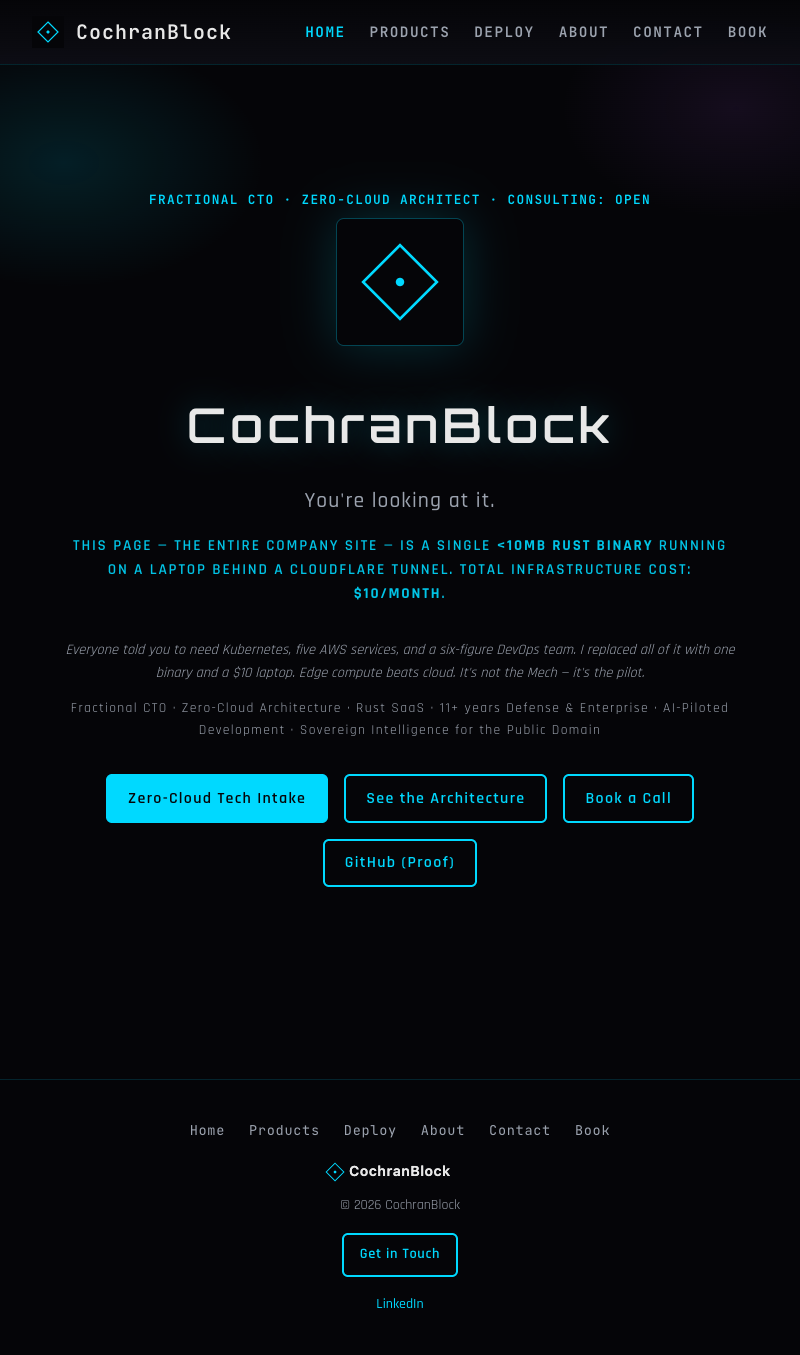
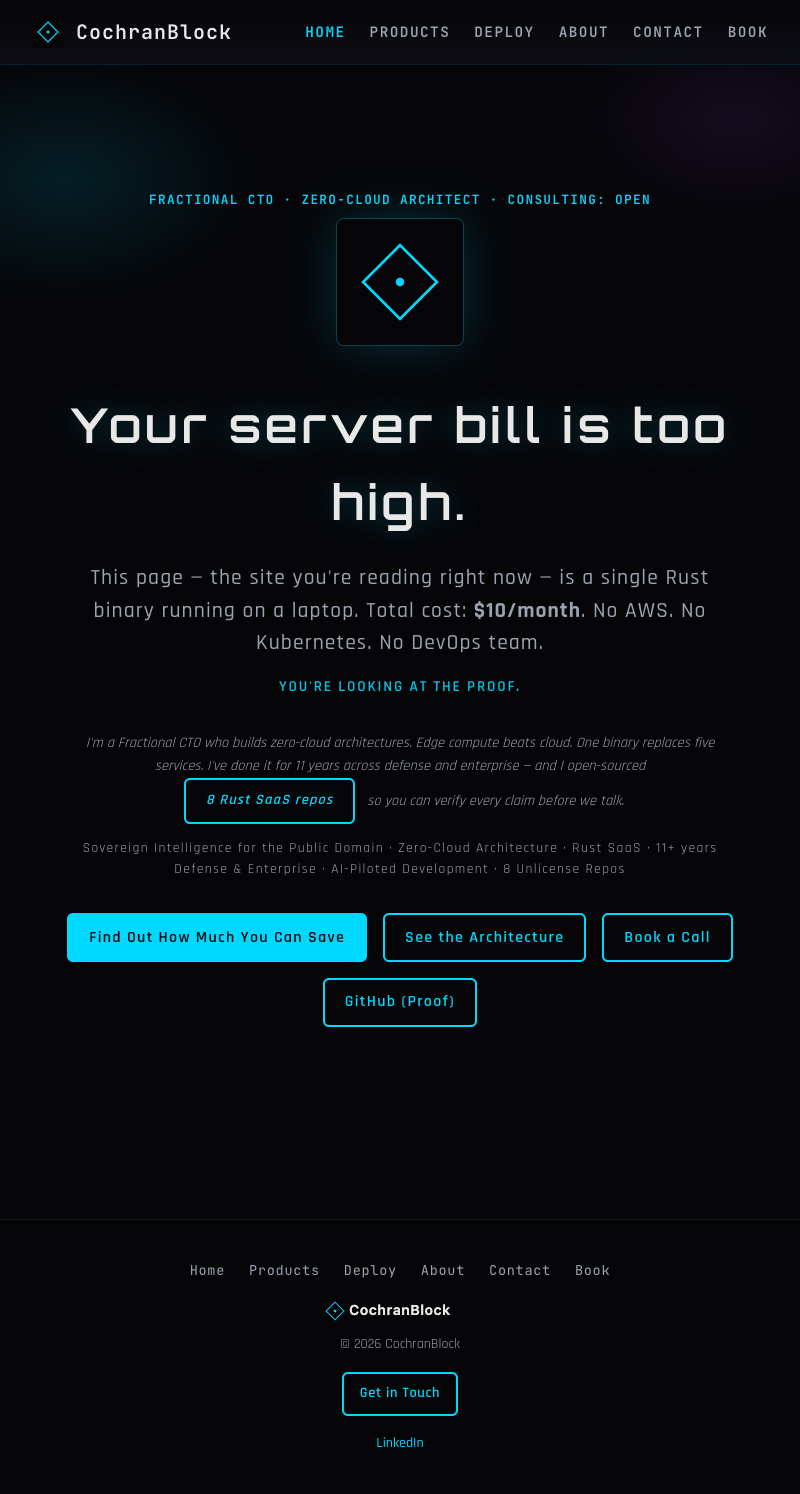
hero rewrite: pain-first — lead with the money, prove with the site
Your server bill is too high. You're looking at the proof.
Reordered hero: pain → proof → credibility → CTA.
Technical flex (Rust SaaS, edge compute, Sovereign Intelligence)
stays for the engineers. Money hook lands first for everyone else.

diff --git a/src/web/pages.rs b/src/web/pages.rs
@@ -86,7 +86,7 @@ pub const C8: &str = r#"</main><footer class="footer"><nav class="footer-nav"><a
 
 /// f2 = serve_index. Why: Hero page; first impression for cochranblock.org.
 pub async fn f2(State(_p0): State<Arc<t0>>) -> Html<String> {
-    let v0 = r#"<section class="hero"><p class="hero-status">Fractional CTO · Zero-Cloud Architect · Consulting: open</p><div class="hero-logo"><a href="/products"><img src="/assets/cochranblock-hero-logo.svg?v=9" alt="" class="hero-logo-img" width="128" height="128"></a></div><h1>CochranBlock</h1><p class="tagline">You're looking at it.</p><p class="hero-stats">This page — the entire company site — is a single <strong>&lt;10MB Rust binary</strong> running on a laptop behind a Cloudflare tunnel. Total infrastructure cost: <strong>$10/month</strong>.</p><p class="hero-note">Everyone told you to need Kubernetes, five AWS services, and a six-figure DevOps team. I replaced all of it with one binary and a $10 laptop. Edge compute beats cloud. It's not the Mech — it's the pilot.</p><p class="hero-skills">Fractional CTO · Zero-Cloud Architecture · Rust SaaS · 11+ years Defense &amp; Enterprise · AI-Piloted Development · Sovereign Intelligence for the Public Domain</p><p class="hero-cta"><a href="/deploy" class="btn">Zero-Cloud Tech Intake</a><a href="/products" class="btn btn-secondary">See the Architecture</a><a href="/book" class="btn btn-secondary">Book a Call</a><a href="https://github.com/cochranblock" class="btn btn-secondary">GitHub (Proof)</a></p></section>"#;
+    let v0 = r#"<section class="hero"><p class="hero-status">Fractional CTO · Zero-Cloud Architect · Consulting: open</p><div class="hero-logo"><a href="/products"><img src="/assets/cochranblock-hero-logo.svg?v=9" alt="" class="hero-logo-img" width="128" height="128"></a></div><h1>Your server bill is too high.</h1><p class="tagline">This page — the site you're reading right now — is a single Rust binary running on a laptop. Total cost: <strong>$10/month</strong>. No AWS. No Kubernetes. No DevOps team.</p><p class="hero-stats">You're looking at the proof.</p><p class="hero-note">I'm a Fractional CTO who builds zero-cloud architectures. Edge compute beats cloud. One binary replaces five services. I've done it for 11 years across defense and enterprise — and I open-sourced <a href="https://github.com/cochranblock">8 Rust SaaS repos</a> so you can verify every claim before we talk.</p><p class="hero-skills">Sovereign Intelligence for the Public Domain · Zero-Cloud Architecture · Rust SaaS · 11+ years Defense &amp; Enterprise · AI-Piloted Development · 8 Unlicense Repos</p><p class="hero-cta"><a href="/deploy" class="btn">Find Out How Much You Can Save</a><a href="/products" class="btn btn-secondary">See the Architecture</a><a href="/book" class="btn btn-secondary">Book a Call</a><a href="https://github.com/cochranblock" class="btn btn-secondary">GitHub (Proof)</a></p></section>"#;
     Html(format!("{}{}{}{}", f62("home", "CochranBlock | Fractional CTO · Zero-Cloud Architect"), C7, v0, C8))
 }
 
